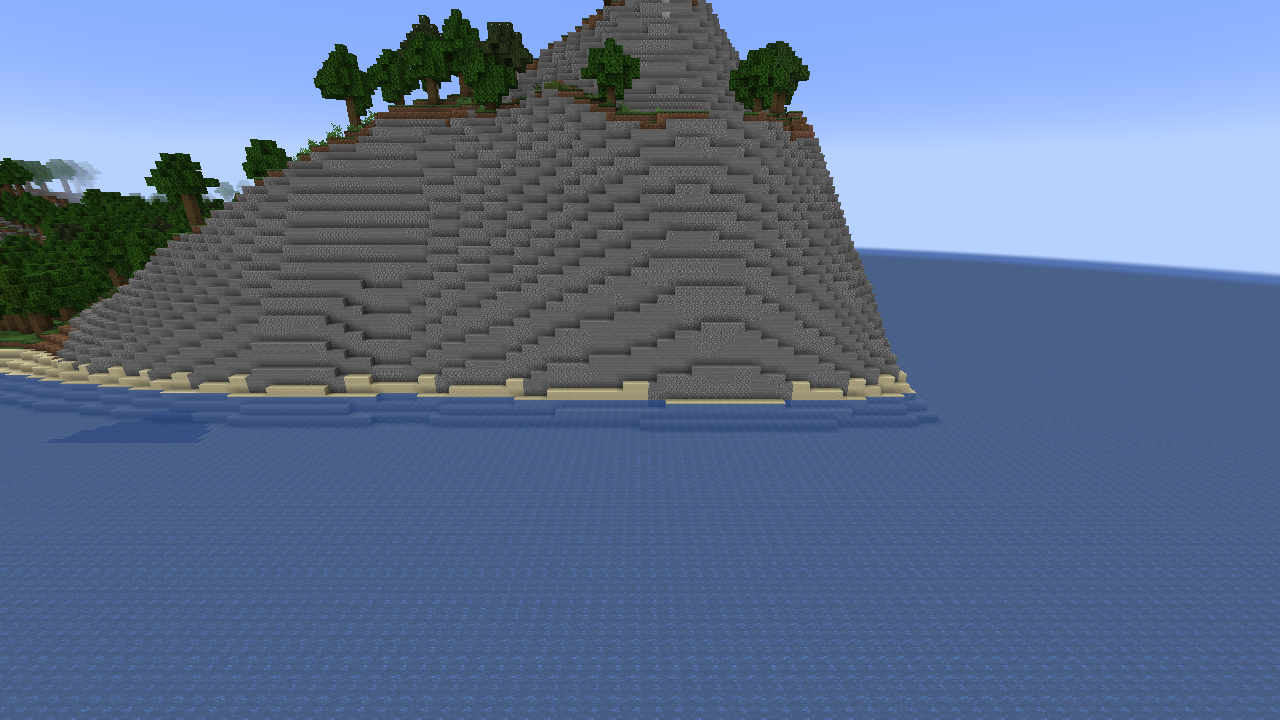
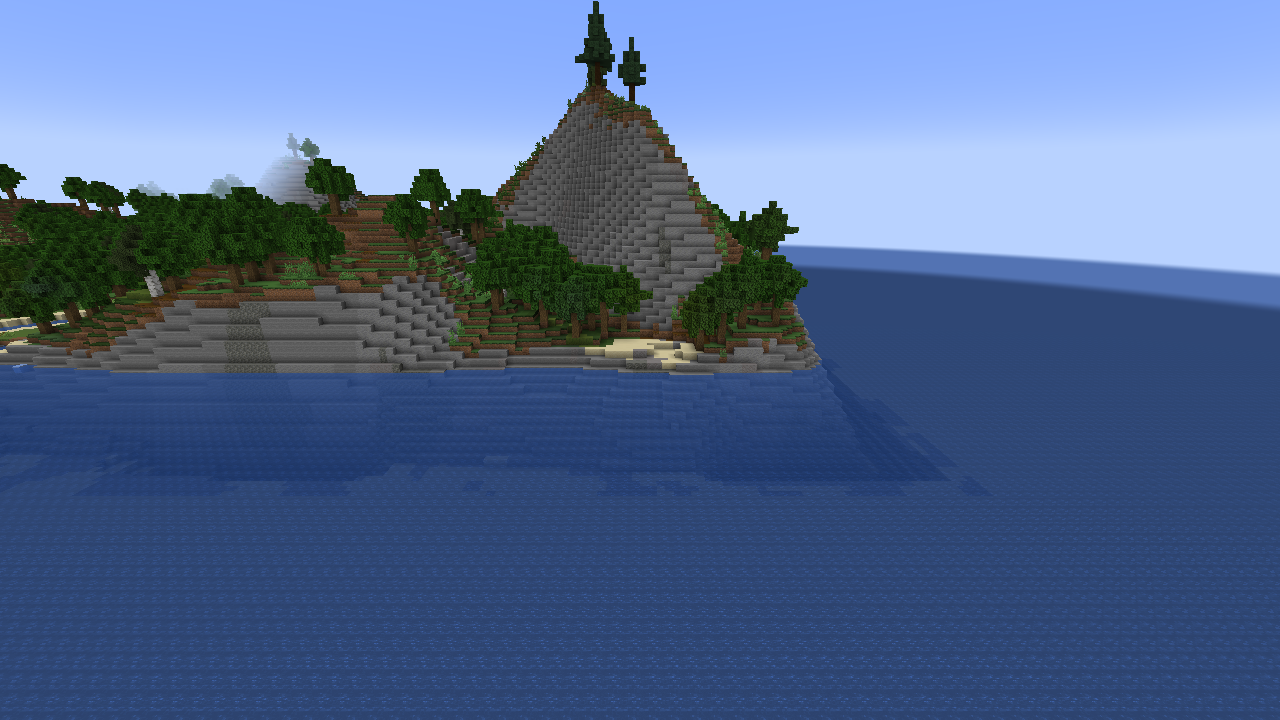
feat: in-game tuning (engine 0.9.0) and path-safety fixes
- Phase 7: natural rock patches instead of WorldPainter's banded Rock/Stone mix,
  steeper rock threshold with ragged edges, deeper sea (SEA_DEPTH 10) with
  varied beaches/rocky shores, level.dat SpawnDimension fix ("Not a string"),
  screenshot cleanup; before/after in-game shots in previews/phase7/.
- Security: params `name` restricted to [A-Za-z0-9_-]{1,64} (it becomes an
  rmtree'd folder under exports/); MCP edit_world output confined to
  exports/edits/<name> and source must contain level.dat.
- README: repo link and setup prerequisites.

diff --git a/terrain_engine/generator.py b/terrain_engine/generator.py
@@ -89,8 +89,12 @@ def _blur(h, passes, weight=0.5):
 
 
 SEA_DEPTH = 10  # sea floor at the map border = water_level - 10, matching the flat ocean written outside the map
-SHORE_STEEP = 20.0  # degrees: steeper shore cells are rocky (stony shore), gentler ones are beaches
-MOUNTAIN_COAST = 1.0  # mountains also fade over the coast band (twice, with the coast fade): no wall into the sea
+SHORE_STEEP = 30.0  # degrees: steeper shore cells are rocky (stony shore), gentler ones are beaches
+COAST_CURVE = 0.06  # coastal ceiling = wl + 2 + grad * (e - fall / 2) + COAST_CURVE * max(e - 0.85 * fall, 0)^2
+
+
+def _edge(p, X, Z):
+    return np.minimum(np.minimum(X, p["width"] - 1 - X), np.minimum(Z, p["length"] - 1 - Z))
 
 
 def _coast(p, X, Z, inner=1.0):
@@ -98,9 +102,32 @@ def _coast(p, X, Z, inner=1.0):
     fall = p["edge_falloff"]
     if fall <= 0:
         return np.ones_like(X, dtype=np.float64)
-    e = np.minimum(np.minimum(X, p["width"] - 1 - X), np.minimum(Z, p["length"] - 1 - Z))
+    e = _edge(p, X, Z)
     wobble = fbm(X / 40.0, Z / 40.0, p["seed"] + 97, octaves=3) * 0.35 * fall * smoothstep(0, fall * 0.5, e)
     return smoothstep(2.0, max(fall * inner, 3.0), e + wobble)
+
+
+def _cap_coast(p, X, Z, h):
+    """Soft min with a ceiling rising inland from the sea floor at the border, so high ground steps down to the
+    sea instead of dropping as a wall. Its noisy gradient leaves gentle (beach) and steep (cliff) stretches."""
+    if p["edge_falloff"] <= 0:
+        return h
+    e = _edge(p, X, Z)
+    # beach stretches (14 deg) alternate with cliff stretches (72 deg: mountains reach the sea as rocky shore)
+    grad = 0.25 + 2.75 * smoothstep(-0.15, 0.15, fbm(X / 64.0, Z / 64.0, p["seed"] + 99, octaves=2))
+    fall = p["edge_falloff"]
+    ceiling = p["water_level"] + 2 + grad * (e - fall / 2) + COAST_CURVE * np.maximum(e - 0.85 * fall, 0) ** 2
+    return -2.0 * np.logaddexp(-h / 2.0, -ceiling / 2.0)
+
+
+def _shelf(p, X, Z, h, coast):
+    """Fade to the outside sea floor: the sea bed rises over the outer part of the coast band to just under the
+    water, land above it rises over the inner part, so low shores are gentle beaches. Exact seabed at the border."""
+    if p["edge_falloff"] <= 0:
+        return h
+    seabed, top = p["water_level"] - SEA_DEPTH, p["water_level"] - 1.5
+    under = np.minimum(h, top)
+    return seabed + (under - seabed) * smoothstep(0.0, 0.45, coast) + (h - under) * smoothstep(0.25, 1.0, coast)
 
 
 def _pre_heights(p, X, Z, dist, span):
@@ -119,15 +146,13 @@ def _pre_heights(p, X, Z, dist, span):
                    gain=0.38 + 0.12 * p["roughness"], sharpness=p["ridge_sharpness"])
     broad = fbm(wx / (sc * 2.5), wz / (sc * 2.5), s + 23, octaves=3) * 0.5 + 0.5
     mountain = p["mountain_height"] * v ** 1.2 * (0.3 + 0.7 * ridge) * (0.6 + 0.4 * broad)
-    mountain = mountain * _coast(p, X, Z, inner=MOUNTAIN_COAST)
     hills = fbm(wx / (sc * 0.35), wz / (sc * 0.35), s + 5, octaves=p["octaves"],
                 gain=0.3 + 0.3 * p["roughness"]) * p["hill_amplitude"] * (0.35 + 0.65 * v)
     h = p["base_height"] + hills + mountain
 
-    # coast: fade everything to the flat sea floor of the outside ocean, so the map edge has no seam
-    seabed = wl - SEA_DEPTH
+    # coast: step down to the flat sea floor of the outside ocean, so the map edge has no seam
     coast = _coast(p, X, Z)
-    h = seabed + (h - seabed) * coast
+    h = _shelf(p, X, Z, _cap_coast(p, X, Z, h), coast)
 
     if np.any(p["cliffiness"] > 0):
         step = p["terrace_step"]
@@ -153,19 +178,19 @@ def _finish(p, X, Z, h, dist, coast):
         h = bank_h + (h - bank_h) * smoothstep(hw, hw + 2 * p["bank_width"] + 2, dist)
         bed = wl - p["river_depth"] * (1 - np.clip(dist / max(hw, 1e-6), 0, 1) ** 2) + 0.4 * perlin(X / 11, Z / 11, s + 83)
         h = np.where(dist < hw, np.minimum(h, np.minimum(bed, wl - 0.6)), h)
+    h = _cap_coast(p, X, Z, h)  # river banks must not stick out into the sea
     inland = coast > 0.999
     h = np.where(inland & ~(dist < hw), np.maximum(h, wl + 1.0), h)
-    h = seabed + (h - seabed) * _coast(p, X, Z, inner=0.35)  # river banks must not stick out into the sea
+    h = seabed + (h - seabed) * _coast(p, X, Z, inner=0.35)  # exact sea floor at the border
     return _blur(h, 1, weight=0.35), coast
 
 
-def _rock_mix(n3, n4):
-    """Natural rock from pure blocks in irregular patches: stone, andesite, tuff, gravel pockets, calcite."""
+def _rock_mix(n2, n3, n4):
+    """Natural rock from pure blocks in irregular patches: stone, andesite, tuff, gravel pockets."""
     r = np.full(n3.shape, T["STONE"], dtype=np.uint8)
-    r[n3 > 0.15] = T["ANDESITE"]
-    r[n4 > 0.4] = T["TUFF"]
-    r[(n4 < -0.4) & (n3 < 0.05)] = T["GRAVEL"]
-    r[(n3 < -0.45) & (n4 > 0.05)] = T["CALCITE"]
+    r[n2 + 0.6 * n3 > 0.0] = T["ANDESITE"]  # broad zones with ragged edges
+    r[n4 > 0.22] = T["TUFF"]
+    r[(n4 < -0.35) & (n3 < 0.1)] = T["GRAVEL"]
     return r
 
 
@@ -178,7 +203,7 @@ def _surface(p, X, Z, h, slope, dist, coast):
     n3 = fbm(X / 9.0, Z / 9.0, s + 73, octaves=2)  # fine patches: rock mix, ragged rock edge
     n4 = fbm(X / 17.0, Z / 17.0, s + 74, octaves=3)
     biome = p["biome"]  # str, or per-cell str array when regions set it
-    rocks = _rock_mix(n3, n4)
+    rocks = _rock_mix(n2, n3, n4)
 
     forest = smoothstep(-0.08, 0.08, fbm(X / 110.0, Z / 110.0, s + 91, octaves=4) * 0.5 + 0.5 - (1 - p["forest_coverage"]))
     t = np.full(h.shape, T["GRASS"], dtype=np.uint8)
@@ -194,12 +219,13 @@ def _surface(p, X, Z, h, slope, dist, coast):
     t[alpine & (n2 > 0.2)] = rocks[alpine & (n2 > 0.2)]
 
     # rock only where really steep; fine noise makes its edge ragged so grass creeps up the gentler parts
-    rock_thr = 55 - 16 * p["rock_ratio"] + 6 * n1 + 5 * n3 - np.where(biome == "rocky", 8.0, 0.0)
+    rock_thr = 60 - 16 * p["rock_ratio"] + 6 * n1 + 5 * n3 - np.where(biome == "rocky", 8.0, 0.0)
     scree = (slope > rock_thr - 10) & (slope <= rock_thr)
     t[scree & (n3 > 0.25)] = T["GRAVEL"]
     t[scree & (n3 < -0.2)] = T["COARSE_DIRT"]
     rock = slope > rock_thr
     t[rock] = rocks[rock]
+    t[rock & (slope < rock_thr + 6) & (n4 > 0.2) & (n3 < -0.15)] = T["COARSE_DIRT"]  # soil pockets on ledges
     t[(h > p["snow_line"] + 6 * n1) & (slope < 42)] = T["SNOW"]
 
     if hw > 0:

diff --git a/tests/test_mcp.py b/tests/test_mcp.py
@@ -83,21 +83,35 @@ def test_server_load_test_tool(small_export):
     assert S.server_load_test(small_export["out"])["ok"] is True
 
 
-def test_edit_world_tool_safety_and_run(tmp_path):
+def test_edit_world_tool_safety_and_run():
+    import shutil
     from terrain_engine.export import output_dir
     p = S.P.load("natural_plains", {"name": "natural_plains_256"})
     src = output_dir(p) / "world" / p["name"]
     if not (src / "level.dat").exists():
         pytest.skip("natural_plains_256 world not exported (tests/test_edit_world.py exports it)")
-    with pytest.raises(S.ToolError, match="ValueError"):
-        S.edit_world(str(src), str(src), [64, 64, 128, 128], "forest_hills")
+    for bad_out in (str(src), "../escape", "a/b", r"C:\x", ""):  # only bare names, written under exports/edits
+        with pytest.raises(S.ToolError, match="out must be a bare name"):
+            S.edit_world(str(src), bad_out, [64, 64, 128, 128], "forest_hills")
+    with pytest.raises(S.ToolError, match="no level.dat"):
+        S.edit_world(str(src.parent), "x", [64, 64, 128, 128], "forest_hills")
     with pytest.raises(S.ToolError, match="box"):
-        S.edit_world(str(src), str(tmp_path / "a"), [64, 64, 128], "forest_hills")
-    (tmp_path / "taken").mkdir()
-    with pytest.raises(S.ToolError, match="FileExistsError"):
-        S.edit_world(str(src), str(tmp_path / "taken"), [64, 64, 128, 128], "forest_hills")
-    r = S.edit_world(str(src), str(tmp_path / "w"), [64, 64, 128, 128], "forest_hills", {"seed": 3}, 16)
-    assert r["chunks_written"] == 16 and r["edge_jump_added_max"] <= 2 and (tmp_path / "w" / "level.dat").exists()
+        S.edit_world(str(src), "pytest_edit", [64, 64, 128], "forest_hills")
+    dest = S.EDITS / "pytest_edit"
+    shutil.rmtree(dest, ignore_errors=True)
+    try:
+        r = S.edit_world(str(src), "pytest_edit", [64, 64, 128, 128], "forest_hills", {"seed": 3}, 16)
+        assert r["chunks_written"] == 16 and r["edge_jump_added_max"] <= 2 and (dest / "level.dat").exists()
+        with pytest.raises(S.ToolError, match="FileExistsError"):
+            S.edit_world(str(src), "pytest_edit", [64, 64, 128, 128], "forest_hills")
+    finally:
+        shutil.rmtree(dest, ignore_errors=True)
+
+
+def test_name_param_rejects_paths():
+    for bad in ("../x", "a/b", r"a\b", "", "x" * 65):
+        with pytest.raises(ValueError, match="name must match"):
+            S.P.load("natural_plains", {"name": bad})
 
 
 def test_generate_tiled_matches_full_and_rejects_bad_tile():

diff --git a/tests/test_features.py b/tests/test_features.py
@@ -10,14 +10,15 @@ from terrain_engine.generator import B
 
 SEED = {"seed": "20261118"}
 OFF = {"caves": "0", "biomes": "off"}
-# sha256 over all output fields of a 128x96 map per preset, recorded with engine v0.4.0 (before Faz 3)
[7 lines of base64/hex data omitted]
+# sha256 over all output fields of a 128x96 map per preset with caves/biomes off. First recorded with v0.4.0 (before
+# Faz 3); re-recorded with v0.9.0, whose surface (rock mix, shores) and coast (10-deep sea) changes were intended.
[7 lines of base64/hex data omitted]
 
 
 def _digest(d):
@@ -88,8 +89,9 @@ def test_biome_classes_where_expected(valley):
 
 
 def test_alpine_biomes():
+    # edge_falloff 0: on a 128-block map the v0.9 coastal cap would flatten every peak (they all lie near the border)
     p = P.load("mountain_valley", {**SEED, "width": "128", "length": "128", "mountain_height": "160",
-                                   "tree_line": "110", "snow_line": "140"})
+                                   "tree_line": "110", "snow_line": "140", "edge_falloff": "0"})
     b = G.generate(p)["biomes"]
     assert {B["MEADOW"], B["SNOWY_SLOPES"]} & set(np.unique(b).tolist())
 

diff --git a/agent/mcp_server.py b/agent/mcp_server.py
@@ -56,6 +56,9 @@ def _tool(fn):
     return wrapper
 
 
+EDITS = EXPORTS / "edits"
+
+
 def _export_dir(export_dir: str) -> Path:
     out = Path(export_dir).resolve()
     if EXPORTS.resolve() not in out.parents or not (out / "params.json").exists():
@@ -175,12 +178,19 @@ def install_world(export_dir: str, new_name: str | None = None) -> dict:
 @_tool
 def edit_world(source: str, out: str, box: list[int], preset: str | None = None, overrides: dict | None = None,
                blend: float = 24) -> dict:
-    """Improve box [x0, z0, x1, z1] (x1/z1 exclusive) of an existing world, written to a NEW folder `out`.
-    Never writes the source; refuses an existing out, out inside the source, or out under %APPDATA%/.minecraft."""
+    """Improve box [x0, z0, x1, z1] (x1/z1 exclusive) of an existing world (read-only `source`, must hold level.dat).
+    `out` is a bare folder name; the result goes to exports/edits/<out> (agents may not write elsewhere)."""
     from terrain_engine.edit_world import edit_world as run
     if not (isinstance(box, list) and len(box) == 4 and all(isinstance(v, int) for v in box)):
         raise ValueError("box must be [x0, z0, x1, z1] integers")
-    return run(source, out, box, preset, overrides, blend)
+    if not P.NAME_RE.fullmatch(out or ""):
+        raise ValueError(f"out must be a bare name matching {P.NAME_RE.pattern}")
+    src = Path(source).resolve()
+    if not (src / "level.dat").is_file():
+        raise ValueError(f"source is not a Minecraft world (no level.dat): {source}")
+    dest = EDITS / out
+    EDITS.mkdir(parents=True, exist_ok=True)
+    return run(str(src), str(dest), box, preset, overrides, blend)
 
 
 # ---- live dev client (bridge/, Phase 11) -------------------------------------------------------------------------

diff --git a/agent/bridge_client.py b/agent/bridge_client.py
@@ -311,7 +311,7 @@ def auto_viewpoints(p: dict, f: dict) -> list[dict]:
     if p.get("caves", 0) > 0 and "caverns" in f:
         cav = np.where(interior & (h > wl + 4), np.asarray(f["caverns"], dtype=np.float64), -1)
         if cav.max() > 0:
-            vz, vx = np.unravel_index(int(np.argmax(cav)), h.shape)
+            vz, vx = np.unravel_index(int(np.argmax(_box_mean(cav, 8))), h.shape)  # middle of a big patch
             y = float(h[vz, vx]) - 14
             views.append(look_at("cave", (vx + 0.5, y, vz + 0.5), (vx + 20.5, y - 6, vz + 0.5), night_vision=True))
     return views
@@ -327,6 +327,8 @@ def find_cave(world_dir: Path, x: float, z: float, r: int = 32) -> tuple | None:
     top = columns(ids, pal)["top"] - Y_MIN
     ys = np.arange(ids.shape[0])[:, None, None]
     air &= (ys <= top[None] - 8) & (ys > 4)
+    zs, xs = np.mgrid[0:ids.shape[1], 0:ids.shape[2]]  # load_area rounds out to whole chunks: keep to the window
+    air &= ((np.abs(xs + a["gx0"] - int(x)) <= r) & (np.abs(zs + a["gz0"] - int(z)) <= r))[None]
     if not air.any():
         return None
     k = 4  # roominess = air count in a 9^3 window (summed-volume table)

diff --git a/tests/test_hydraulic.py b/tests/test_hydraulic.py
@@ -9,10 +9,11 @@ from terrain_engine import hydraulic as H
 from terrain_engine import params as P
 
 SEED = {"seed": "20261118"}
-# sha256 over all output fields of a 128x96 map, recorded with engine v0.3.0 (before hydraulic existed)
[3 lines of base64/hex data omitted]
+# sha256 over all output fields of a 128x96 map with hydraulic=0 (and caves/biomes off). First recorded with v0.3.0
+# (before hydraulic existed); re-recorded with v0.9.0, whose surface and coast changes were intended.
[3 lines of base64/hex data omitted]
 
 
 def _digest(d):

diff --git a/tests/test_engine.py b/tests/test_engine.py
@@ -144,3 +144,14 @@ def test_anvil_fix_renames_legacy_grass(valley, tmp_path):
     assert "minecraft:grass" not in names and "minecraft:short_grass" in names
     assert anvil_fix.fix_world(copy) == 0  # idempotent
     assert verify(copy, p, d)["land_height_within_1_pct"] >= 99.0  # rewritten region still reads back
+
+
+def test_player_dimension_fix(tmp_path):
+    """WP's level.dat lacks Player.SpawnDimension/Dimension -> MC logs "Not a string"; the fix adds both once."""
+    import nbtlib
+    from terrain_engine.worldpainter import fix_player_dimension
+    nbtlib.File({"Data": nbtlib.Compound({"Player": nbtlib.Compound({"SpawnX": nbtlib.Int(1)})})},
+                gzipped=True).save(tmp_path / "level.dat")
+    assert fix_player_dimension(tmp_path) and not fix_player_dimension(tmp_path)
+    player = nbtlib.load(tmp_path / "level.dat")["Data"]["Player"]
+    assert player["SpawnDimension"] == player["Dimension"] == "minecraft:overworld"

diff --git a/terrain_engine/params.py b/terrain_engine/params.py
@@ -3,6 +3,7 @@
 The AI (or the user) only edits these JSON values; all block math is local.
 """
 import json
+import re
 from pathlib import Path
 
 from . import regions as R
@@ -59,11 +60,17 @@ def defaults() -> dict:
     return d
 
 
+NAME_RE = re.compile(r"[A-Za-z0-9_-]{1,64}")
+
+
 def validate(p: dict) -> dict:
     unknown = set(p) - set(NUMERIC) - set(CHOICES) - {"name", "description", "regions"}
     if unknown:
         raise ValueError(f"unknown parameter(s): {sorted(unknown)}")
     out = dict(p)
+    # name becomes a folder under exports/ that may be rmtree'd: no path separators or "..", ever
+    if not isinstance(out.get("name"), str) or not NAME_RE.fullmatch(out["name"]):
+        raise ValueError(f"name must match {NAME_RE.pattern}, got {out.get('name')!r}")
     for k, (_, lo, hi) in NUMERIC.items():
         v = out[k]
         if not isinstance(v, (int, float)) or isinstance(v, bool):

diff --git a/tests/test_regions.py b/tests/test_regions.py
@@ -78,8 +78,9 @@ def test_values_actually_change(split):
 
 
 def _seam_metrics(blend):
-    # erosion 0: thermal erosion would also hide a hard cut, so test the raw blend
-    p = P.load("forest_hills", {**BASE, "erosion": "0", "regions": [
+    # erosion 0: thermal erosion would also hide a hard cut, so test the raw blend; edge_falloff 0: the coastal
+    # cap (v0.9) bends the control strips near the border, which would dilute the hard-cut control ratio
+    p = P.load("forest_hills", {**BASE, "erosion": "0", "edge_falloff": "0", "regions": [
         {"shape": "half", "side": "east", "blend": blend, "preset": "rocky_cliffs"}]})
     h = G.generate(p)["height"].astype(np.float64)
     lap = np.abs(4 * h[1:-1, 1:-1] - h[:-2, 1:-1] - h[2:, 1:-1] - h[1:-1, :-2] - h[1:-1, 2:])

diff --git a/docs/INTEGRATIONS.md b/docs/INTEGRATIONS.md
@@ -14,16 +14,16 @@
   `Caverns`, `Chasms`, `Caves` (4-bit), `Frost`, `Void` (1-bit), `Biomes` (BYTE, doğrudan eşleme), `Populate`, `Annotations`.
   Yok: `Biome`, `River`, `Flowers`, `Grass`, `Ferns`, `Plants` — bitki katmanı (`PlantLayer`) yalnız özel katman.
 - Biyom ID'leri (1.20.5 formatı): `Minecraft1_21Biomes.BIOMES_BY_MODERN_ID`; eski biyomlar klasik sayısal ID
-  (ocean 0, plains 1, windswept_hills 3, forest 4, taiga 5, river 7, beach 16, birch_forest 27, dark_forest 29),
+  (ocean 0, plains 1, windswept_hills 3, forest 4, taiga 5, river 7, beach 16, stony_shore 25, birch_forest 27, dark_forest 29),
   1.18+ biyomlar 246..254 (cherry_grove 246, frozen_peaks 249, grove 250, jagged_peaks 251, meadow 252,
   snowy_slopes 253, stony_peaks 254). 255 = otomatik. Varsayılan eşlemede siyah (0) atlanır → her değer açıkça eşlenmeli.
 - Caverns/Chasms: script dünyasında katman ayarı yok (null) → varsayılan `CavernsSettings` (surfaceBreaking=false,
   leaveWater=true, min/max sınırsız). Yoğunluk eşik gibi: 6 → kolonların %1.5'i, 10 → %12, 15 → %18 oyuldu.
 - Filtre: `wp.createFilter().exceptOnWater().go()` (belgedeki açıklama karışık, ama `exceptOnWater` doğru çalışıyor).
   Filtreyi ve katmanı `applyHeightMap()` başlamadan oluştur ("You forgot to invoke go()" hatası).
-- Kenar dikişi çözüldü (motor 0.2.0): `edge_falloff` (blok) haritayı gürültülü bir kıyıyla `water_level-3` deniz tabanına indirir;
-  `outside: "ocean"` dışa aktarımdan sonra level.dat'taki overworld jeneratörünü düz okyanusa çevirir
-  (bedrock/taş/4 kum/3 su, yüzey = water_level). Orijinal level.dat `level.dat.bak` olarak kalır.
+- Kenar dikişi çözüldü (motor 0.2.0; 0.9.0'da derinleşti): `edge_falloff` (blok) haritayı gürültülü bir kıyıyla
+  `water_level-10` (`SEA_DEPTH`) deniz tabanına indirir; `outside: "ocean"` dışa aktarımdan sonra level.dat'taki overworld
+  jeneratörünü düz okyanusa çevirir (bedrock/taş/4 kum/10 su, yüzey = water_level). Orijinal level.dat `level.dat.bak` olarak kalır.
   `outside: "vanilla"` eski davranış (harita dışı normal Minecraft arazisi).
 
 - **Büyük export (Faz 6, ölçüldü):** 4096² (65 536 chunk, 64 region) tek `exportWorld` çağrısıyla sorunsuz; parçalı export gerekmedi.
@@ -50,15 +50,18 @@
   Oyun da JDK 25'te sorunsuz çalıştı (yalnız `sun.misc.Unsafe` uyarıları). JDK 21 indirmeye gerek olmadı.
 - İndirilen (resmî kaynaklar): wrapper betikleri/jar GitHub FabricMC şablonundan (jar SHA-256 = services.gradle.org), Minecraft 1.21.4
   + kütüphaneler Mojang'dan (~143 MB loom önbelleği, ~100 MB yeni asset), Fabric/Yarn maven.fabricmc.net'ten (~70 MB). Gradle 9.8.2
-  dağıtımı `~/.gradle` içinde zaten vardı. `run/` ~32 MB (ekran görüntüleri `run/screenshots` içinde birikir).
+  dağıtımı `~/.gradle` içinde zaten vardı. `run/` ~32 MB (0.9.0'dan beri `tour()` görüntüyü `run/screenshots`'tan taşır, birikmez).
 - Yarn API'leri: `MinecraftClient.submit(Supplier)`, `createIntegratedServerLoader().start(name, onCancel)`,
   `getLevelStorage().getSavesDirectory()`, `worldRenderer.getCompletedChunkCount()/isTerrainRenderComplete()`,
   `ScreenshotRecorder.saveScreenshot(runDir, "ad.png", getFramebuffer(), cb)` (asenkron yazar; geri çağrı beklenir),
   `world.disconnect()` + `disconnect(new MessageScreen(...))`, `options.hudHidden`, `getWindow().setWindowedSize()`,
   `ServerPlayerEntity.getCommandSource().withOutput(sink).withLevel(4)` + `getCommandManager().executeWithPrefix()` (sunucu iş parçacığında),
   `ClientTickEvents.END_CLIENT_TICK` (tick sayacı). HTTP: JDK `com.sun.net.httpserver` (ek bağımlılık yok).
-- Notlar: 1.21.4 eski (DataVersion 3837) dünyayı onay ekranı olmadan açtı. Açılışta "key missing: DragonFight" ve sunucuda bir
-  "Not a string" ERROR satırı çıkıyor; dünya sorunsuz yükleniyor (kaynağı araştırılmadı). Spektatör blok içindeyse x-ray gibi
+- Notlar: 1.21.4 eski (DataVersion 3837) dünyayı onay ekranı olmadan açtı. Açılışta "key missing: DragonFight" (zararsız,
+  End verisi yok) çıkıyor. **"Not a string" çözüldü (0.9.0):** WP 2.27.1 level.dat'ta `Data.Player` içine `SpawnX/Y/Z` yazıyor ama
+  `SpawnDimension` (ve `Dimension`) yazmıyor; 1.21.4 oyuncuyu yüklerken eksik boyut anahtarını string olarak çözmeye çalışıp bu
+  ERROR'u basıyor (varsayılan overworld'e düşüyor). `worldpainter.fix_player_dimension` ikisini `minecraft:overworld` olarak ekliyor;
+  düzeltilmiş dünyalarda satır yok. Kaynak WP; bizim `set_outside_ocean` değişikliğiyle ilgisi yok. Spektatör blok içindeyse x-ray gibi
   görünür → mağara kamerası dünyadaki gerçek hava boşluğuna konur (`find_cave`) + gece görüşü. Bulutlar (y≈192) genel bakışı
   kapattığı için `renderClouds:"false"`. Kamera = `gamemode spectator` + `tp @s x y z yaw pitch`.
 

diff --git a/docs/CHANGELOG.md b/docs/CHANGELOG.md
@@ -1,5 +1,25 @@
 # CHANGELOG
 
+## 0.9.0 — 2026-11-19 (Faz 7: oyun içi kontrol)
+- Güvenlik: `name` yalnız `[A-Za-z0-9_-]{1,64}` (exports altında rmtree edilen klasör adı; yol/`..` reddedilir). MCP `edit_world` çıktısı yalnız `exports/edits/<ad>`; kaynak `level.dat` içermeli.
+- Oyunda görülen: yamaçlar çıplak gri taş + düzenli yatay çizgiler (WP `Rock`/`Stone mix` yüksekliğe göre katmanlı karışım),
+  dağlar 1 bloklu kum şeritle denize duvar gibi iniyordu, deniz her yerde 3 blok derin, her açılışta "Not a string" hatası.
+- Kaya: yalnız saf bloklar, gürültü lekeleriyle (`_rock_mix`: taş, geniş andezit bölgeleri, tüf, çakıl cepleri); `ROCK`/`STONE_MIX`
+  artık yüzeyde kullanılmıyor. Kaya eşiği yükseldi (`60 - 16·rock_ratio`, ince gürültüyle pürüzlü kenar) → çimen/kaba toprak/podzol
+  yamaçlara tırmanıyor; açık yamaçta toprak lekeleri, kaya içinde toprak cepleri; eğimli çimen çıkıntılarında seyrek ağaç.
+  Kara içinde kaya oranı: fantasy %35→%15, mountain_valley %45→%24 (256²).
+- Kıyı: `SEA_DEPTH` 3→10; harita dışı düz okyanus 10 su (sunucu testi yoklamaları da). `_cap_coast`: kenardan içeri yükselen
+  gürültülü bir tavan (yumuşak min) — bazı kesimlerde ~14° (kumsal), bazılarında ~72° (kayalık kıyı). `_shelf`: deniz tabanı kıyı
+  bandının dışında hızla yükselir, kara içte → alçak kıyılar yumuşak. Kıyı yüzeyi: dik = kaya/çakıl (`stony_shore` biyomu, ID 25),
+  yumuşak = kum + çakıllı kumsal; deniz tabanı kum/çakıl/kil lekeleri. Kıyı şeridi (su ±2) eğim medyanı fantasy 47→29°, mountain_valley 51→30°, rocky 58→32°.
+  Bedel: 256² haritada kara %85→%72; 128² gibi küçük haritada kenara yakın zirveler alçalır.
+- "Not a string": WP level.dat'ında `Player.SpawnDimension`/`Dimension` yok → `fix_player_dimension` ekliyor (her export'ta).
+- Köprü: `tour()` ekran görüntüsünü `bridge/run/screenshots`'tan taşır (birikmez); `find_cave` aramayı istenen pencereyle sınırlar
+  (chunk yuvarlaması 32+15 blok uzağa kaçırıyordu); otomatik mağara kamerası en büyük mağara lekesinin ortasında.
+- Testler: v0.3/v0.4 "özellik kapalı" özetleri v0.9.0 ile yeniden kaydedildi (yüzey/kıyı değişikliği kasıtlı); `test_alpine_biomes`
+  ve bölge dikiş testi `edge_falloff=0` (kıyı tavanı ölçümü karıştırıyordu); `fix_player_dimension` testi eklendi.
+- Önce/sonra oyun içi görüntüler: `previews/phase7/` (fantasy_valley, mountain_valley, rocky_cliffs; 256², seed 20261118).
+
 ## 0.8.0 — 2026-11-19 (Faz 11: canlı istemci köprüsü)
 - `bridge/`: Fabric Loom geliştirme projesi (MC 1.21.4, Yarn 1.21.4+build.8, Loader 0.19.5, Fabric API 0.119.4+1.21.4,
   Loom 1.19-SNAPSHOT, Gradle 9.8.2 wrapper — fabric-example-mod 1.21.4 dalından; wrapper jar SHA-256 Gradle'ın yayınladığıyla aynı).

diff --git a/docs/NEXT.md b/docs/NEXT.md
@@ -54,7 +54,10 @@ MC 1.21.4 sunucu yükleme testi, kenar sönümü + harita dışı düz okyanus, 
   localhost köprü modu: dünya aç, kamera konumla, ekran görüntüsü al, komut çalıştır. Agent oyunu kendisi açıp kontrol eder.
   Sonuç: `bridge/` + `agent/bridge_client.py` + 5 MCP aracı; fantasy_valley_256 turu 6 gerçek oyun içi görüntü (~40 sn, açılış ~16 sn),
   `previews/ingame_fantasy_valley_256/`; kısa çimen, biyom renkleri ve mağara görüldü.
-- `[ ]` **Faz 7 — oyun içi kontrol:** köprüyle otomatik ekran görüntüleri; çimen, biyom renkleri, mağaralar, kıyı, 4096² harita.
+- `[x]` **Faz 7 — oyun içi kontrol:** köprüyle otomatik ekran görüntüleri; çimen, biyom renkleri, mağaralar, kıyı, 4096² harita.
+  Sonuç (v0.9.0): 3 preset (256²) önce/sonra turu, `previews/phase7/`; çizgili çıplak kaya → saf blok karışımı + daha çok çimen,
+  kıyı duvarı → kumsal/kayalık kıyı karışımı, deniz 10 blok, "Not a string" düzeldi. 4096² oyun içi turu yapılmadı.
+  Kalan: en dik yamaçlar hâlâ geniş gri yüzeyler (geometri; Faz 9'daki dik yamaç işi).
 - `[ ]` **Faz 8 — doğal dil komutu:** "batıya orman ekle" → `regions` JSON → MCP `generate`/`edit_world`; tek komut/skill.
 - `[ ]` **Faz 9 — görsel kalite:** nehir kolları ve göller, 256² dik yamaç p90'ı, özel ağaç objeleri, bitki `.layer` dosyaları.
 - `[ ]` **Faz 10 — edit-world v2:** düzenlenen alana ağaç/biyom yerleştirme, mağara tavanı koruması.
@@ -74,3 +77,4 @@ MC 1.21.4 sunucu yükleme testi, kenar sönümü + harita dışı düz okyanus, 
 - 2026-11-19: Faz 6 tamam (v0.7.0) — ölçek-duyarlı hidrolik, paralel parçalı üretim, akışlı verify/anvil_fix; 4096² uçtan uca (WP tek parça, bölmeye gerek yok).
 - 2026-11-19: Faz 11 tamam (v0.8.0) — Loom dev istemcisi + localhost köprü modu; ajan oyunu kendisi açıp 6 ekran görüntüsü aldı ve kapattı.
 - 2026-11-19: Faz 6 doğrulandı (104 test; 4096² verify %100, sunucu 52/52). MCP `generate` parçalı üretimi destekliyor.
+- 2026-11-19: Faz 7 tamam (v0.9.0) — oyun içi önce/sonra: kaya karışımı, kıyı/deniz derinliği, "Not a string" (WP level.dat Player boyutu) düzeltildi; 127 test, verify %100, sunucu 52/52 ×3.
